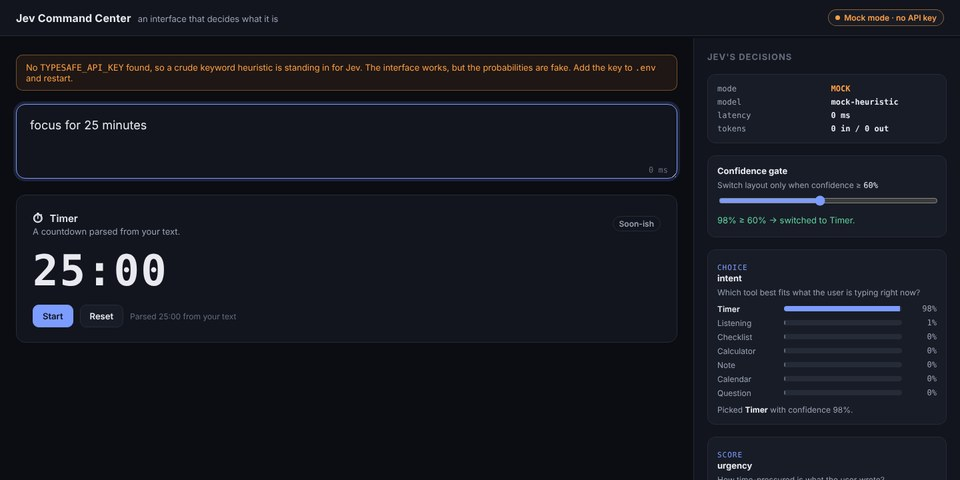
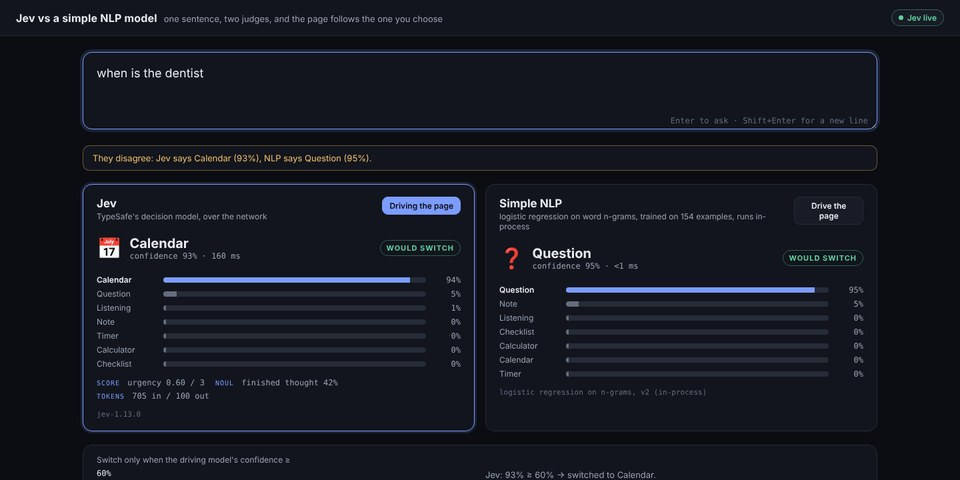
Update the Jev project to the head-to-head comparison with a simple NLP model
Now card, project entry, animation and thumbnail now show the test:
Jev 96% vs simple NLP 93% on 112 unseen sentences, a tie on the
ambiguous ones, with the failure modes and the cost/latency trade-off.

Claude-Session: https://claude.ai/code/session_01RpLgJo9XJ3ojisyJw6H81K

diff --git a/src/data.js b/src/data.js
@@ -56,26 +56,27 @@ export const PROJECTS = [
     highlights: [],
   },
   {
-    kind: "Adaptive Interface · Decision Model",
+    kind: "Model Comparison · Adaptive Interface",
     category: "Agentic AI & LLM Tools",
     title: "Jev Command Center",
     year: "2026",
     badge: "new",
     impact:
-      "One text box, and the page decides what it is. Every pause in typing sends the text to Jev, TypeSafe AI's System One decision model, with three typed questions: which tool fits (a Choice over seven labels), how urgent it is (a Score on a four-level rubric) and whether the thought is finished (a Noul, a single yes/no probability). The page then becomes a timer, checklist, calculator, note, calendar event or question hand-off. A confidence threshold gates every switch: above it the layout changes on its own; below it the page shows the likeliest tools as cards and asks. An always-on panel shows each question, its probabilities, confidence, latency and token usage, so the model's reasoning is never hidden.",
+      "Is a decision model worth it, or would a tiny classifier do? One sentence goes in, and two judges say which tool the page should become (timer, checklist, calculator, note, calendar, question): Jev, TypeSafe AI's System One decision model, on the left, and a simple NLP model I trained on 154 example sentences on the right. Either one can drive the page through the same confidence gate. Then I tested both on 112 unseen sentences, 28 of them deliberately ambiguous. Jev scored 96%, the simple NLP model 93%; on the ambiguous ones they tied (82% vs 79%). The simple model needs no API, costs nothing and improves every time I add a phrasing it missed. Jev's real edge is unseen phrasing and trustworthy high-confidence answers; its weakness is over-reading context, turning \"when is the dentist\" into a calendar entry at 93% confidence.",
     stack: [
       "Next.js 16 (App Router)", "TypeScript", "TypeSafe Jev · @typesafe-ai/sdk",
-      "Calibrated probabilities", "Confidence gating", "Vercel",
+      "Logistic regression · n-gram features", "Held-out evaluation", "Calibration analysis", "Vercel",
     ],
     links: [
       { label: "GitHub", href: "https://github.com/EiriniOr/jev-playground" },
     ],
     highlights: [
-      "Jev decides, code acts: the model only picks the tool; plain, testable regular expressions pull out the duration, list items, arithmetic (no eval) and dates",
-      "Calibration is the feature: a slider sets the confidence the UI needs before it may switch layout, and the panel explains every verdict (\"74% < 95%, showing candidates instead\")",
-      "Explicit abstain option: the intent question includes an \"unclear\" label, because decision models without a way to abstain guess confidently on fragments",
-      "All three Jev primitives in one request: Choice for intent, Score for urgency, Noul for completeness",
-      "Server-side SDK call keeps the API key off the client; a clearly labelled mock mode keeps the UI explorable without a key",
+      "Head-to-head on a held-out set, scored through the app's own code path: Jev 96% vs simple NLP 93% overall, 100% vs 98% on clear sentences, 82% vs 79% on ambiguous ones (a tie at n=28)",
+      "Latency 180 ms over a paid API vs 0.1 ms in-process and free; the simple model is retrainable in seconds whenever it misses a phrasing",
+      "Calibration checked, not assumed: Jev's 95 answers above 95% confidence were 99% correct; the simple model abstains more and guesses less",
+      "Failure modes documented: Jev over-reads (schedule words become calendar entries), the NLP model under-reads (unseen phrasing becomes \"unclear\")",
+      "Honest method: test set written after training, Jev's answers cached and never re-queried, one feature bug found by error analysis and both versions reported",
+      "Earlier experiment in the same repo: keyword rules vs Jev on emergency-department notes (70% vs 93%), where free text genuinely needed a model",
     ],
   },
   {
@@ -581,15 +582,15 @@ export const CERTS = [
 
 // ── Front-page stories ─────────────────────────────────────────────────────
 export const NOW = {
-  kicker: "Now building",
-  headline: "Jev Command Center — an interface that decides what it is",
-  text: "I'm building with Jev, TypeSafe AI's System One decision model. One text box: the page becomes a timer, checklist, calculator or calendar depending on what Jev judges you're typing, with the probabilities behind every switch on screen.",
+  kicker: "Now testing",
+  headline: "Jev vs a model I trained in an afternoon",
+  text: "I built an interface where TypeSafe's Jev and a 154-example logistic regression each decide what the page should become, then scored both on 112 unseen sentences. Jev 96%, simple NLP 93%, a tie on the ambiguous ones. Three points of accuracy, for an API call and a bill.",
   uses: [
-    "Confidence-gated UI: the layout switches only when Jev is sure, otherwise it asks",
-    "All three Jev primitives in one call: Choice for intent, Score for urgency, Noul for completeness",
-    "An explicit \"unclear\" label so the model can abstain instead of guessing",
+    "Clear sentences: Jev 100%, simple NLP 98%",
+    "Ambiguous sentences: 82% vs 79%, a tie at this size",
+    "Latency: 180 ms paid vs 0.1 ms free, and the small model is retrainable in seconds",
   ],
-  link: { label: "See the project", href: "https://github.com/EiriniOr/jev-playground" },
+  link: { label: "Code, test set and report", href: "https://github.com/EiriniOr/jev-playground" },
 };
 
 export const UPCOMING = {

diff --git a/src/components/FrontPage.jsx b/src/components/FrontPage.jsx
@@ -6,13 +6,13 @@ import { track } from "../analytics";
 import { Kicker, SectionHead, ease, useNow } from "./ui";
 
 const SAMPLES = [
-  { input: "“focus for 25 minutes”", out: '{ tool: "timer", urgency: 1 }', p: 0.96, ms: 84 },
-  { input: "“milk, eggs, bread and butter”", out: '{ tool: "checklist", items: 4 }', p: 0.93, ms: 77 },
-  { input: "“18% tip on 64.50”", out: '{ tool: "calculator" }  → 11.61', p: 0.91, ms: 69 },
-  { input: "“dentist Tuesday 3pm”", out: '{ tool: "calendar", urgency: 2 }', p: 0.97, ms: 92 },
-  { input: "“call mum”", out: '{ tool: "unclear" }  → asks instead', p: 0.44, ms: 73 },
-  { input: "“why does bread rise?”", out: '{ tool: "question", complete: 0.98 }', p: 0.95, ms: 81 },
-  { input: "“idea: a lamp that dims when quiet”", out: '{ tool: "note", urgency: 0 }', p: 0.86, ms: 88 },
+  { input: "“focus for 25 minutes.”", out: "jev → timer 0.96 · nlp → timer 0.99", p: 0.96, ms: 180 },
+  { input: "“milk, eggs, bread and butter.”", out: "jev → checklist 0.99 · nlp → checklist 0.97", p: 0.99, ms: 171 },
+  { input: "“when is the dentist”", out: "jev → calendar 0.93 ✗ · nlp → question 0.95 ✓", p: 0.55, ms: 160 },
+  { input: "“add to calendar: call mom”", out: "jev → calendar 1.00 ✓ · nlp → unclear 0.19", p: 0.78, ms: 183 },
+  { input: "“eggs”", out: "jev → checklist 0.63 ✗ · nlp → unclear 0.99 ✓", p: 0.5, ms: 165 },
+  { input: "“18% tip on 64.50”", out: "jev → calculator 0.98 · nlp → calculator 0.99", p: 0.98, ms: 176 },
+  { input: "“dentist tomorrow”", out: "jev → calendar 1.00 · nlp → calendar 0.93", p: 1.0, ms: 182 },
 ];
 
 function DecisionStream() {
@@ -38,9 +38,9 @@ function DecisionStream() {
           <span className="h-2 w-2 rounded-full bg-rose-400/80" />
           <span className="h-2 w-2 rounded-full bg-amber-300/80" />
           <span className="h-2 w-2 rounded-full bg-lime-300/80" />
-          <span className="ml-2">what is the user typing?</span>
+          <span className="ml-2">jev vs simple nlp</span>
         </span>
-        <span>illustrative</span>
+        <span>from the test set</span>
       </div>
       <div className="relative h-[178px] overflow-hidden p-3">
         <AnimatePresence initial={false}>
@@ -349,7 +349,7 @@ function LeadVideo() {
 export function NowSection() {
   return (
     <section className="mx-auto mt-12 max-w-7xl px-4 md:px-8">
-      <SectionHead eyebrow="Current work" title="Now building" />
+      <SectionHead eyebrow="Current work" title="Now testing" />
       <NowStory />
     </section>
   );

diff --git a/src/components/CommandPalette.jsx b/src/components/CommandPalette.jsx
@@ -16,7 +16,7 @@ export default function CommandPalette({ onClose, onOpen, setFilter, replayIntro
 
   const items = useMemo(() => {
     const actions = [
-      { group: "Jump to", label: "Now — building with Jev", run: () => go("now") },
+      { group: "Jump to", label: "Now — Jev vs a simple NLP model", run: () => go("now") },
       { group: "Jump to", label: "Coming up — Karolinska", run: () => go("coming-up") },
       { group: "Jump to", label: "▶ Watch my story (90 s)", run: () => go("watch") },
       { group: "Jump to", label: "Featured projects", run: () => go("featured") },
